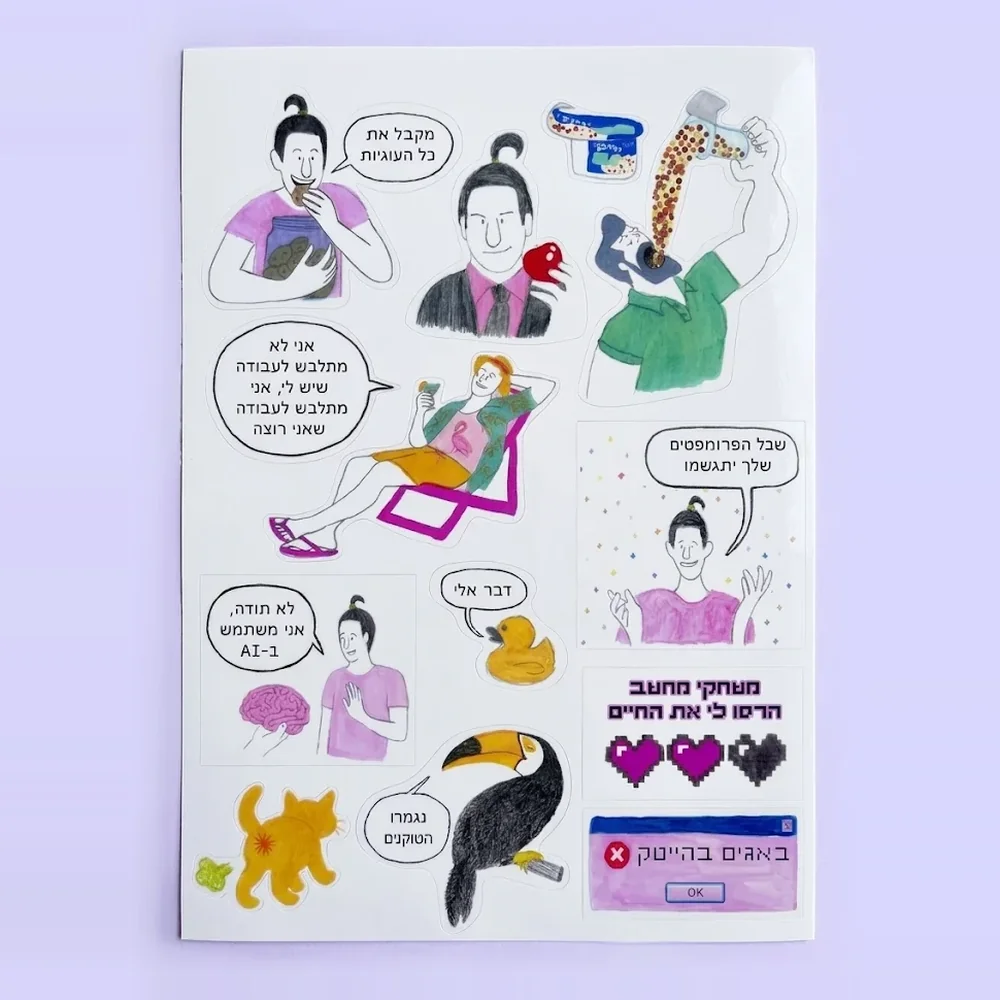
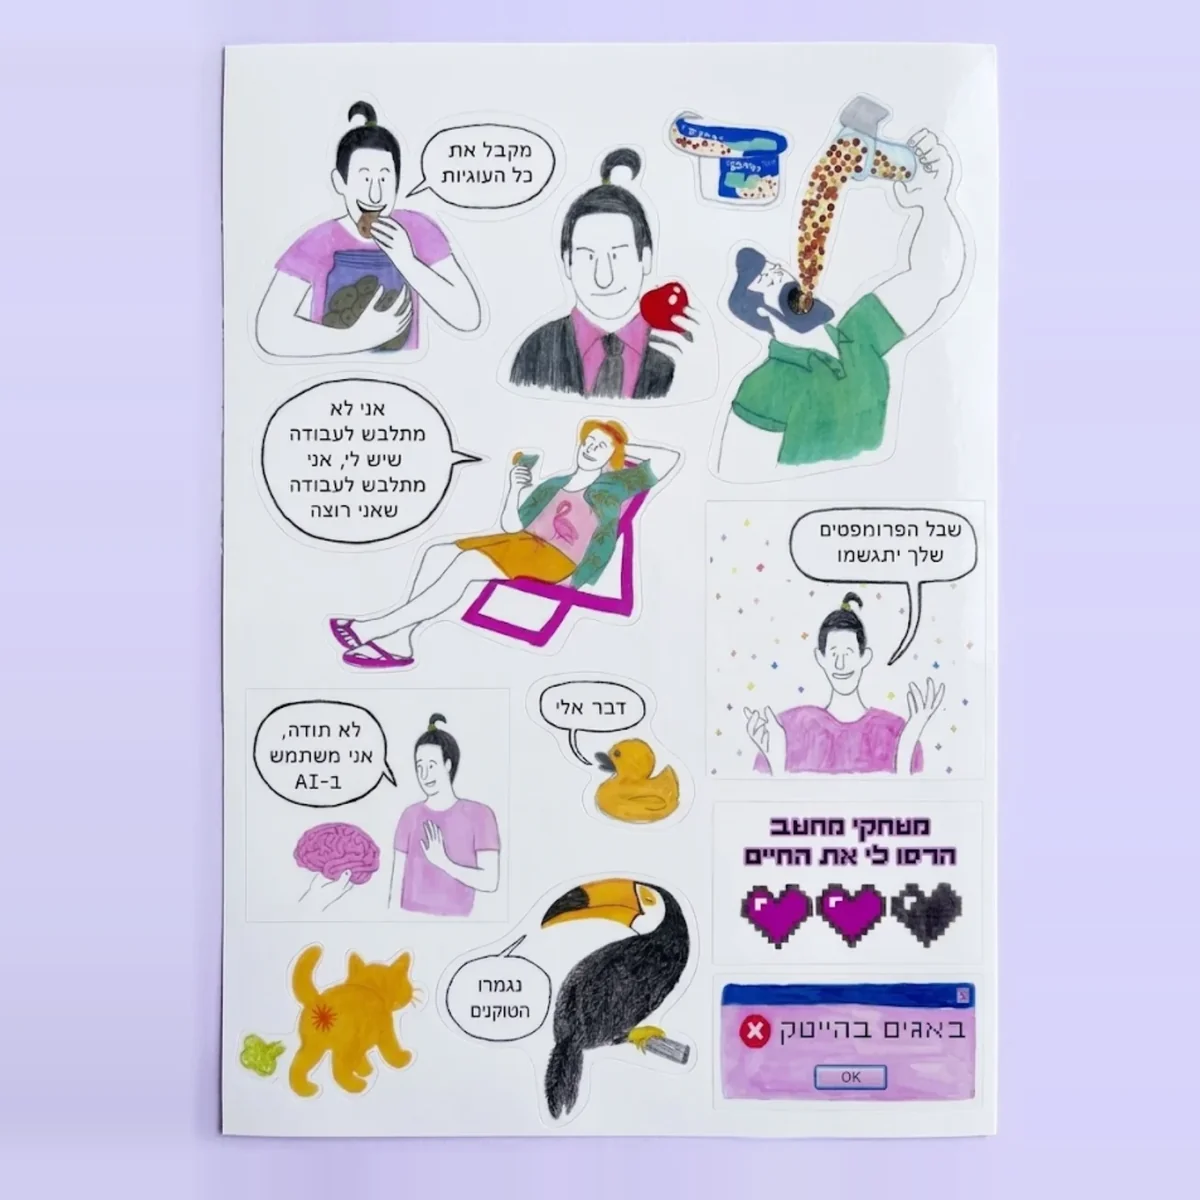
Stickers product image: higher-resolution photo
Claude-Session: https://claude.ai/code/session_01J1oraSVFWXEaaBwfgBjyar

Changed region(s): [[0.155, 0.031, 0.837, 0.961]]

diff --git a/index.html b/index.html
@@ -206,7 +206,7 @@
       </li>
       <li class="product">
         <button class="product-view" type="button" data-view="stickers" aria-label="פרטים נוספים">
-          <img src="/images/shop/stickers.webp" width="1000" height="1000" loading="lazy" alt="">
+          <img src="/images/shop/stickers.webp" width="1200" height="1200" loading="lazy" alt="">
         </button>
         <h3><button class="product-title" type="button" data-view="stickers">דף מדבקות<br>״באגים בהייטק״</button></h3>
         <hr class="rule">
